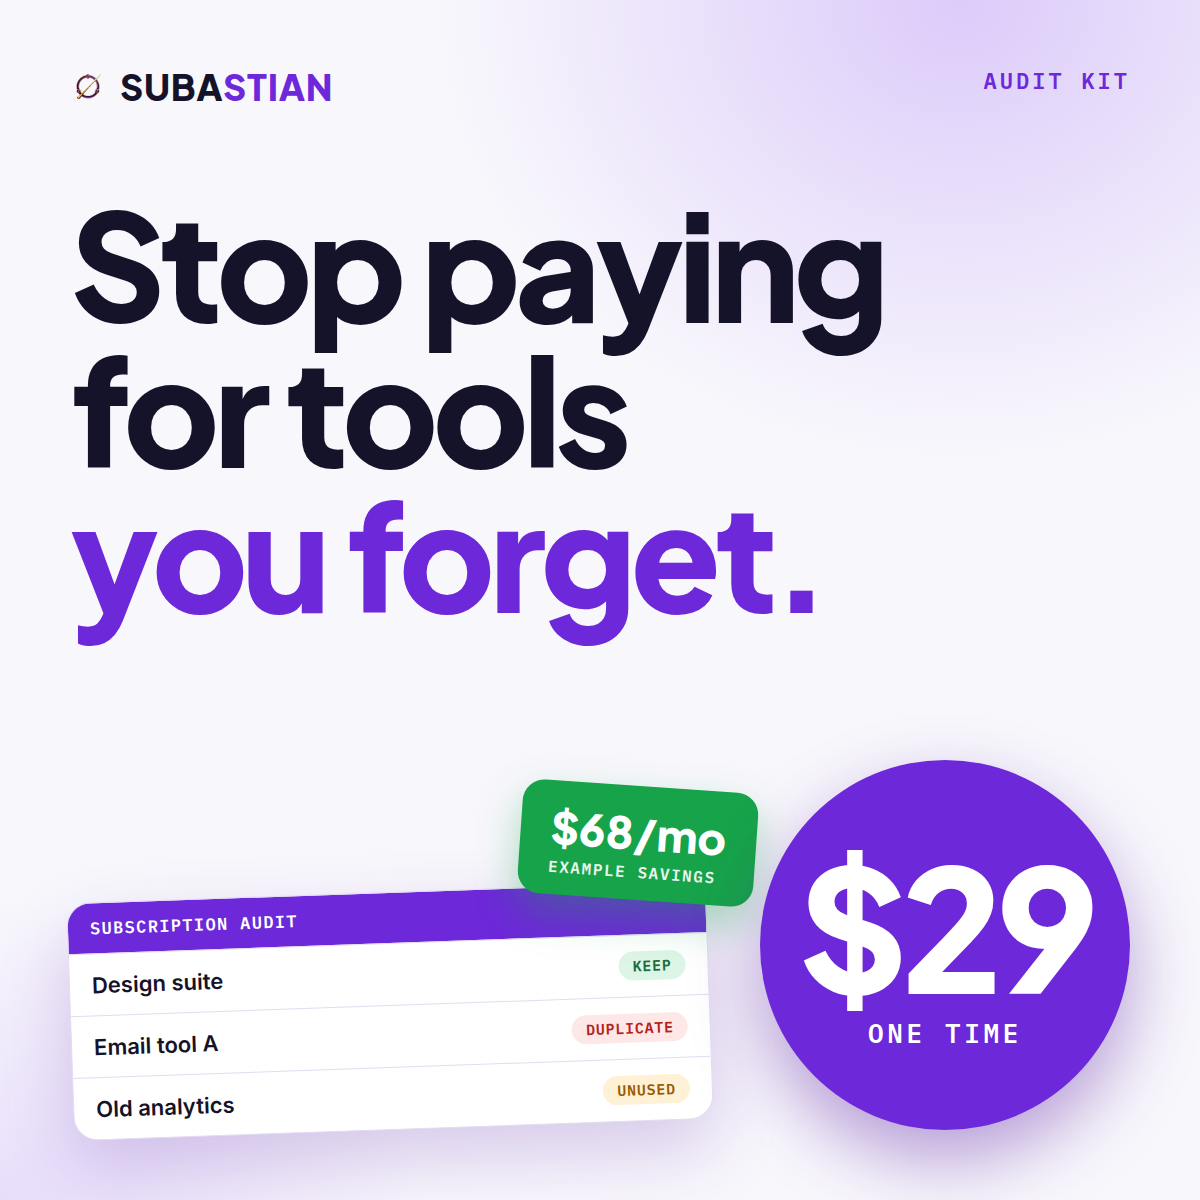
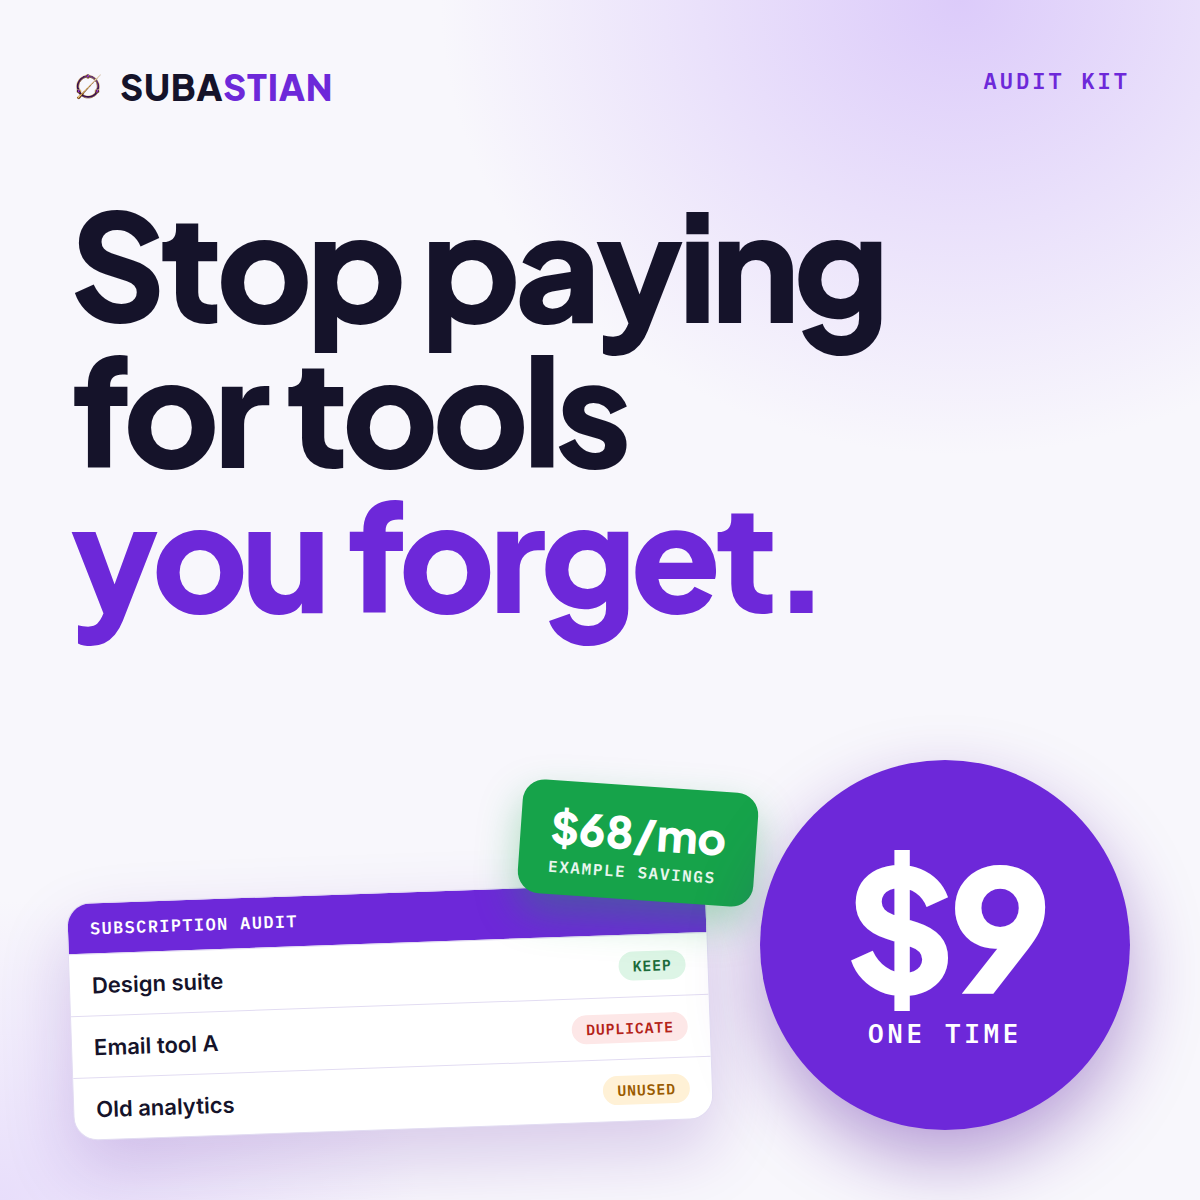
Set Audit Kit price to $9 and refresh cover images
Claude-Session: https://claude.ai/code/session_019sXTCsmVP4FG1kHYEtrpfb

Changed region(s): [[0.6475, 0.7092, 0.925, 0.8633]]

diff --git a/audit-kit/index.html b/audit-kit/index.html
@@ -124,7 +124,7 @@
     <section>
       <div class="cards">
         <div class="card">
-          <h3>$<span class="js-price">29</span> &middot; one time</h3>
+          <h3>$<span class="js-price">9</span> &middot; one time</h3>
           <p>List every tool once. Monthly and annual cost, renewal alerts, overlap, idle tools and savings all calculate for you.</p>
           <a class="btn-cta js-checkout" href="/#waitlist">Get the Audit Kit</a>
           <p class="hint js-fine">Secure checkout. Full refund within 60 days, no questions asked.</p>
@@ -172,7 +172,7 @@
                    Leave it empty and the button sends people to the free roster instead.
      PRICE:        keep in sync with the price on your Stripe Payment Link. */
   var CHECKOUT_URL = '';
-  var PRICE = 29;
+  var PRICE = 9;
   /* ====================== */
   var live = CHECKOUT_URL.indexOf('https://') === 0;
   document.querySelectorAll('.js-price').forEach(function(el){ el.textContent = PRICE; });
